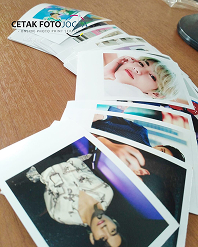
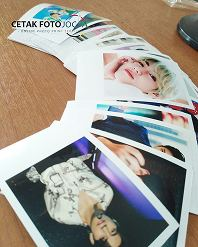
Optimasi performa dari hasil PageSpeed Insights (mobile 67 -> targetkan 90+)
- Logo navbar/footer: resize 2414x820 (558 KiB) -> 412x140 (39 KiB),
  cuma ditampilkan max ~40px tinggi di layar jadi ukuran asli jauh
  berlebihan (penyebab utama LCP mobile 8.9 detik).
- Foto portofolio: re-encode JPEG quality 78, total ~576 KiB -> ~101 KiB
  tanpa terlihat bedanya.
- Tambah width/height eksplisit di semua img yang kena flag "Image
  elements do not have explicit width and height" (cegah layout shift).
- Tambah loading="lazy" di foto portofolio (below the fold).
- Tambah title di iframe Google Maps (accessibility: iframe tanpa title).
- Cache-Control 1 tahun untuk aset build (JS/CSS Vite sudah
  di-fingerprint per nama file, aman di-cache lama).

diff --git a/resources/views/home.blade.php b/resources/views/home.blade.php
@@ -87,10 +87,14 @@
 
     <div class="mt-4 columns-2 sm:columns-3 lg:columns-4 gap-3 sm:gap-4 [column-fill:balance]">
         @for ($i = 1; $i <= 8; $i++)
-            @php $fotoPortofolio = "images/portofolio/{$i}.jpg"; $adaFoto = file_exists(public_path($fotoPortofolio)); @endphp
+            @php
+                $fotoPortofolio = "images/portofolio/{$i}.jpg";
+                $adaFoto = file_exists(public_path($fotoPortofolio));
+                $ukuranFoto = $adaFoto ? getimagesize(public_path($fotoPortofolio)) : null;
+            @endphp
             <div class="mb-3 sm:mb-4 break-inside-avoid rounded-xl overflow-hidden bg-neutral-100 border border-neutral-200">
                 @if ($adaFoto)
-                    <img src="{{ asset($fotoPortofolio) }}" alt="Hasil karya Cetak Foto Jogja {{ $i }}" class="w-full h-auto max-h-96 object-cover hover:scale-105 transition duration-300">
+                    <img src="{{ asset($fotoPortofolio) }}" alt="Hasil karya Cetak Foto Jogja {{ $i }}" width="{{ $ukuranFoto[0] }}" height="{{ $ukuranFoto[1] }}" loading="lazy" class="w-full h-auto max-h-96 object-cover hover:scale-105 transition duration-300">
                 @else
                     <div class="aspect-square flex items-center justify-center text-neutral-300">
                         <svg xmlns="http://www.w3.org/2000/svg" class="w-8 h-8" viewBox="0 0 24 24" fill="none" stroke="currentColor" stroke-width="1.5">
@@ -135,6 +139,7 @@
         <div class="mt-4 rounded-xl overflow-hidden border border-neutral-200">
             <iframe
                 src="https://www.google.com/maps?q={{ urlencode('Jalan Tempel, Gendol, Margorejo, Kec. Tempel, Kabupaten Sleman, Daerah Istimewa Yogyakarta 55552') }}&output=embed"
+                title="Lokasi Cetak Foto Jogja di Google Maps"
                 class="w-full h-72 sm:h-96"
                 style="border:0"
                 allowfullscreen

diff --git a/resources/views/partials/footer.blade.php b/resources/views/partials/footer.blade.php
@@ -1,7 +1,7 @@
 <footer class="mt-16 border-t border-neutral-200 bg-white">
     <div class="max-w-6xl mx-auto px-4 sm:px-6 py-10 grid gap-8 sm:grid-cols-3">
         <div>
-            <img src="{{ asset('images/cetak-foto-jogja-logo.png') }}" alt="Cetak Foto Jogja - Online Photo Print Service" class="h-8 w-auto">
+            <img src="{{ asset('images/cetak-foto-jogja-logo.png') }}" alt="Cetak Foto Jogja - Online Photo Print Service" width="412" height="140" class="h-8 w-auto">
             <p class="mt-3 text-sm text-neutral-500">Cetak foto & sewa fotografer panggilan di Jogja. Order gampang, tinggal chat WhatsApp.</p>
         </div>
 

diff --git a/resources/views/partials/navbar.blade.php b/resources/views/partials/navbar.blade.php
@@ -2,7 +2,7 @@
     <nav class="max-w-6xl mx-auto px-4 sm:px-6">
         <div class="flex items-center justify-between h-16">
             <a href="{{ route('home') }}" class="flex items-center">
-                <img src="{{ asset('images/cetak-foto-jogja-logo.png') }}" alt="Cetak Foto Jogja - Online Photo Print Service" class="h-9 sm:h-10 w-auto">
+                <img src="{{ asset('images/cetak-foto-jogja-logo.png') }}" alt="Cetak Foto Jogja - Online Photo Print Service" width="412" height="140" class="h-9 sm:h-10 w-auto">
             </a>
 
             <div class="hidden sm:flex items-center gap-1">
